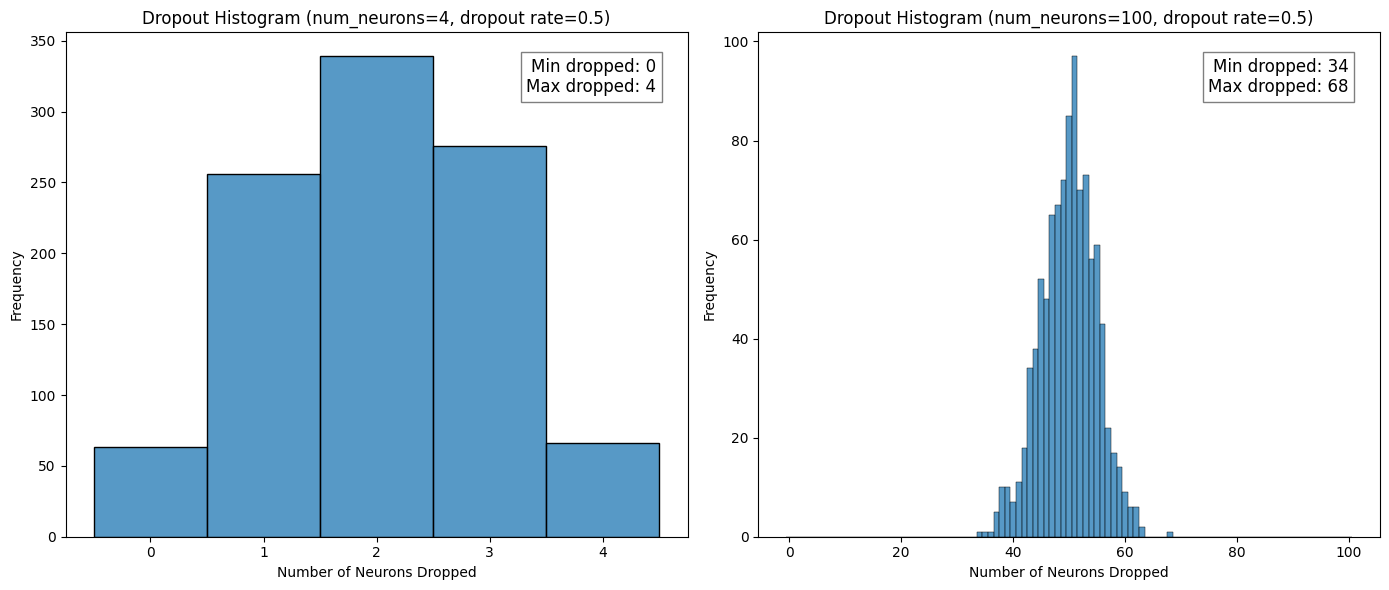
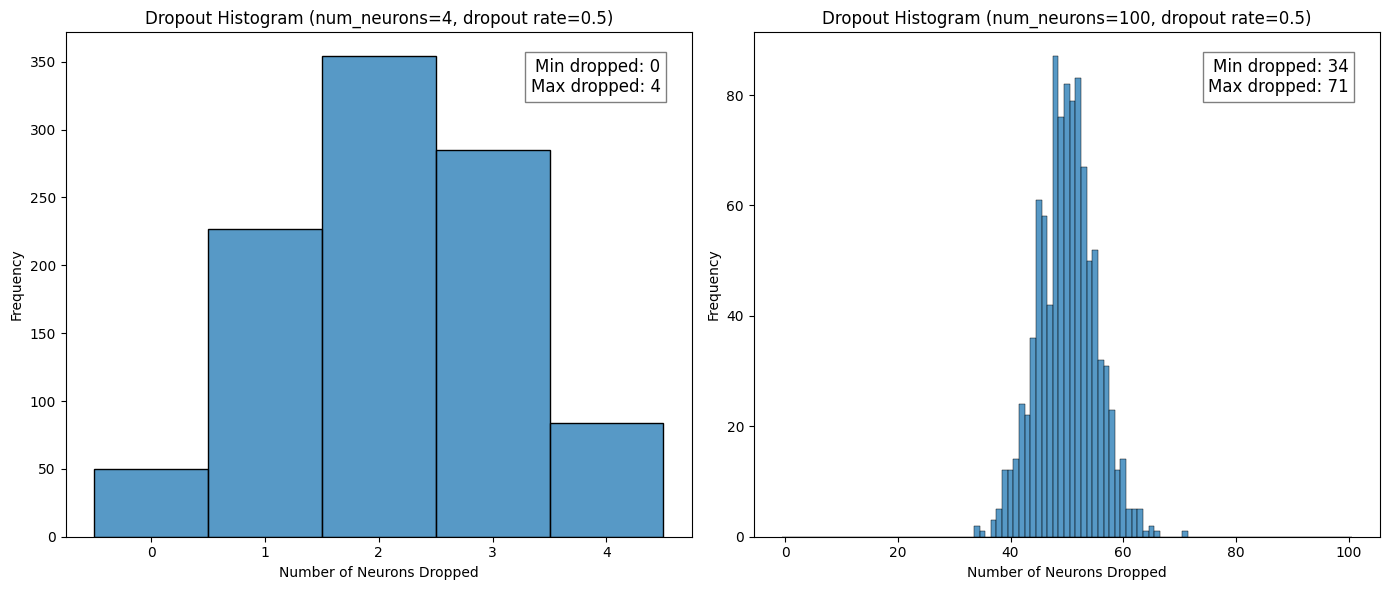
Built site for gh-pages

diff --git a/posts/dropout/dropout.html b/posts/dropout/dropout.html
@@ -202,12 +202,12 @@ p_{\text{keep}} = 1 - p_{\text{drop}}
 </annotation></semantics></math></p>
 <p>While a typical value for <math display="inline" xmlns="http://www.w3.org/1998/Math/MathML"><semantics><msub><mi>p</mi><mtext mathvariant="normal">drop</mtext></msub><annotation encoding="application/x-tex">p_{\text{drop}}</annotation></semantics></math> is 0.5, which makes <math display="inline" xmlns="http://www.w3.org/1998/Math/MathML"><semantics><mrow><msub><mi>p</mi><mtext mathvariant="normal">keep</mtext></msub><mo>=</mo><msub><mi>p</mi><mtext mathvariant="normal">drop</mtext></msub></mrow><annotation encoding="application/x-tex">p_{\text{keep}} = p_{\text{drop}}</annotation></semantics></math>, I need to keep the distinction in mind.</p>
 <p>Using <math display="inline" xmlns="http://www.w3.org/1998/Math/MathML"><semantics><mrow><mi>n</mi><mo>=</mo><mn>1</mn></mrow><annotation encoding="application/x-tex">n=1</annotation></semantics></math>, <math display="inline" xmlns="http://www.w3.org/1998/Math/MathML"><semantics><mrow><msub><mi>p</mi><mtext mathvariant="normal">drop</mtext></msub><mo>=</mo><mn>0.5</mn></mrow><annotation encoding="application/x-tex">p_{\text{drop}} = 0.5</annotation></semantics></math>, I get:</p>
-<div id="cell-2" class="cell" data-execution_count="258">
+<div id="cell-2" class="cell" data-execution_count="1">
 <div class="sourceCode cell-code" id="cb1"><pre class="sourceCode python code-with-copy"><code class="sourceCode python"><span id="cb1-1"><a href="#cb1-1" aria-hidden="true" tabindex="-1"></a><span class="im">import</span> numpy <span class="im">as</span> np</span>
 <span id="cb1-2"><a href="#cb1-2" aria-hidden="true" tabindex="-1"></a></span>
 <span id="cb1-3"><a href="#cb1-3" aria-hidden="true" tabindex="-1"></a>np.random.binomial(<span class="dv">1</span>, <span class="dv">1</span> <span class="op">-</span> <span class="fl">0.5</span>, size<span class="op">=</span>(<span class="dv">4</span>, ))</span></code><button title="Copy to Clipboard" class="code-copy-button"><i class="bi"></i></button></pre></div>
-<div class="cell-output cell-output-display" data-execution_count="258">
-<pre><code>array([1, 1, 0, 1], dtype=int32)</code></pre>
+<div class="cell-output cell-output-display" data-execution_count="1">
+<pre><code>array([1, 0, 1, 1], dtype=int32)</code></pre>
 </div>
 </div>
 <p>For my network, the index of the output corresponds to the unit we are talking about, with a 1 meaning keep the unit in the subnetwork, and a 0 meaning drop the unit from the subnetwork. If I did this for 3 samples, I may get 3 subnetworks like the following:</p>
@@ -220,7 +220,7 @@ p_{\text{keep}} = 1 - p_{\text{drop}}
 <img src="Dropout-3.jpg" width="700">
 </center>
 <p>The next thing I wanted to look at was the distribution of dropped units across all the subnetworks. When doing this I noticed that my small example network is misleading in that it has a fairly high probability for all units to be dropped in a subnetwork, which would mean no subnetwork. This is not the case for networks that would be used in practice. The plots below show the results of two original networks with 4 units and 100 units, respectively, with the dropout recipe applied 1000 times for <math display="inline" xmlns="http://www.w3.org/1998/Math/MathML"><semantics><mrow><msub><mi>p</mi><mtext mathvariant="normal">drop</mtext></msub><mo>=</mo><mn>0.5</mn></mrow><annotation encoding="application/x-tex">p_{\text{drop}} = 0.5</annotation></semantics></math>.</p>
-<div id="cell-6" class="cell" data-execution_count="306">
+<div id="cell-6" class="cell" data-execution_count="2">
 <details class="code-fold">
 <summary>Code</summary>
 <div class="sourceCode cell-code" id="cb3"><pre class="sourceCode python code-with-copy"><code class="sourceCode python"><span id="cb3-1"><a href="#cb3-1" aria-hidden="true" tabindex="-1"></a><span class="im">import</span> seaborn <span class="im">as</span> sns</span>
@@ -280,7 +280,7 @@ p_{\text{keep}} = 1 - p_{\text{drop}}
 </div>
 <p>It is easier to see from the histograms that for more realistic numbers of units, the probability of all units being dropped is <math display="inline" xmlns="http://www.w3.org/1998/Math/MathML"><semantics><mrow><msubsup><mi>p</mi><mtext mathvariant="normal">drop</mtext><mn>100</mn></msubsup><mo>=</mo><mn>7.889</mn><mo>×</mo><msup><mn>10</mn><mrow><mi>−</mi><mn>31</mn></mrow></msup></mrow><annotation encoding="application/x-tex">p_{\text{drop}}^{100} = 7.889\times 10^{-31}</annotation></semantics></math>, which is essentially 0.</p>
 <p>The last thing I want to address in this section is how this process looks in code. Using PyTorch on my example network with 5 samples:</p>
-<div id="cell-8" class="cell" data-execution_count="353">
+<div id="cell-8" class="cell" data-execution_count="3">
 <div class="sourceCode cell-code" id="cb4"><pre class="sourceCode python code-with-copy"><code class="sourceCode python"><span id="cb4-1"><a href="#cb4-1" aria-hidden="true" tabindex="-1"></a><span class="im">import</span> torch</span>
 <span id="cb4-2"><a href="#cb4-2" aria-hidden="true" tabindex="-1"></a></span>
 <span id="cb4-3"><a href="#cb4-3" aria-hidden="true" tabindex="-1"></a>torch.manual_seed(<span class="dv">12</span>)</span>
@@ -313,7 +313,7 @@ tensor([[-0.0000, -0.5664,  0.3843, -0.0000],
 </div>
 <p>I can see that the output without and with dropout is as expected. In the former case, given that all samples have the same values, I would expect each unit’s activation output to be the same value for each sample, which is indeed what I see. For the latter case, I would expect the same activation outputs but that some of them have been zeroed out which is the case; if the seed value is removed, rerunning the code will show the randomness of which units are dropped. The fact that the same activations are not output when dropout was introduced leads me to the next topic: activation scaling.</p>
 <p>But before moving I want to check if this dropout layer gives me the same statistics as the Bernoulli function. The plot below shows that this does seem to be the case</p>
-<div id="cell-10" class="cell" data-execution_count="362">
+<div id="cell-10" class="cell" data-execution_count="4">
 <div class="sourceCode cell-code" id="cb6"><pre class="sourceCode python code-with-copy"><code class="sourceCode python"><span id="cb6-1"><a href="#cb6-1" aria-hidden="true" tabindex="-1"></a>counts <span class="op">=</span> []</span>
 <span id="cb6-2"><a href="#cb6-2" aria-hidden="true" tabindex="-1"></a></span>
 <span id="cb6-3"><a href="#cb6-3" aria-hidden="true" tabindex="-1"></a><span class="cf">for</span> _ <span class="kw">in</span> <span class="bu">range</span>(<span class="dv">1000</span>):</span>

diff --git a/index.html b/index.html
@@ -198,7 +198,7 @@ window.Quarto = {
 
 <div class="quarto-listing quarto-listing-container-default" id="listing-listing">
 <div class="list quarto-listing-default">
-<div class="quarto-post image-right" data-index="0" data-listing-date-sort="1737867600000" data-listing-file-modified-sort="1737911340607" data-listing-date-modified-sort="NaN" data-listing-reading-time-sort="9" data-listing-word-count-sort="1792">
+<div class="quarto-post image-right" data-index="0" data-listing-date-sort="1737867600000" data-listing-file-modified-sort="1738016655240" data-listing-date-modified-sort="NaN" data-listing-reading-time-sort="9" data-listing-word-count-sort="1792">
 <div class="thumbnail">
 <p><a href="./posts/dropout/dropout.html" class="no-external"></a></p><a href="./posts/dropout/dropout.html" class="no-external">
 <p class="card-img-top"><img src="posts\dropout\Dropout-1.jpg"  class="thumbnail-image card-img"/></p>
